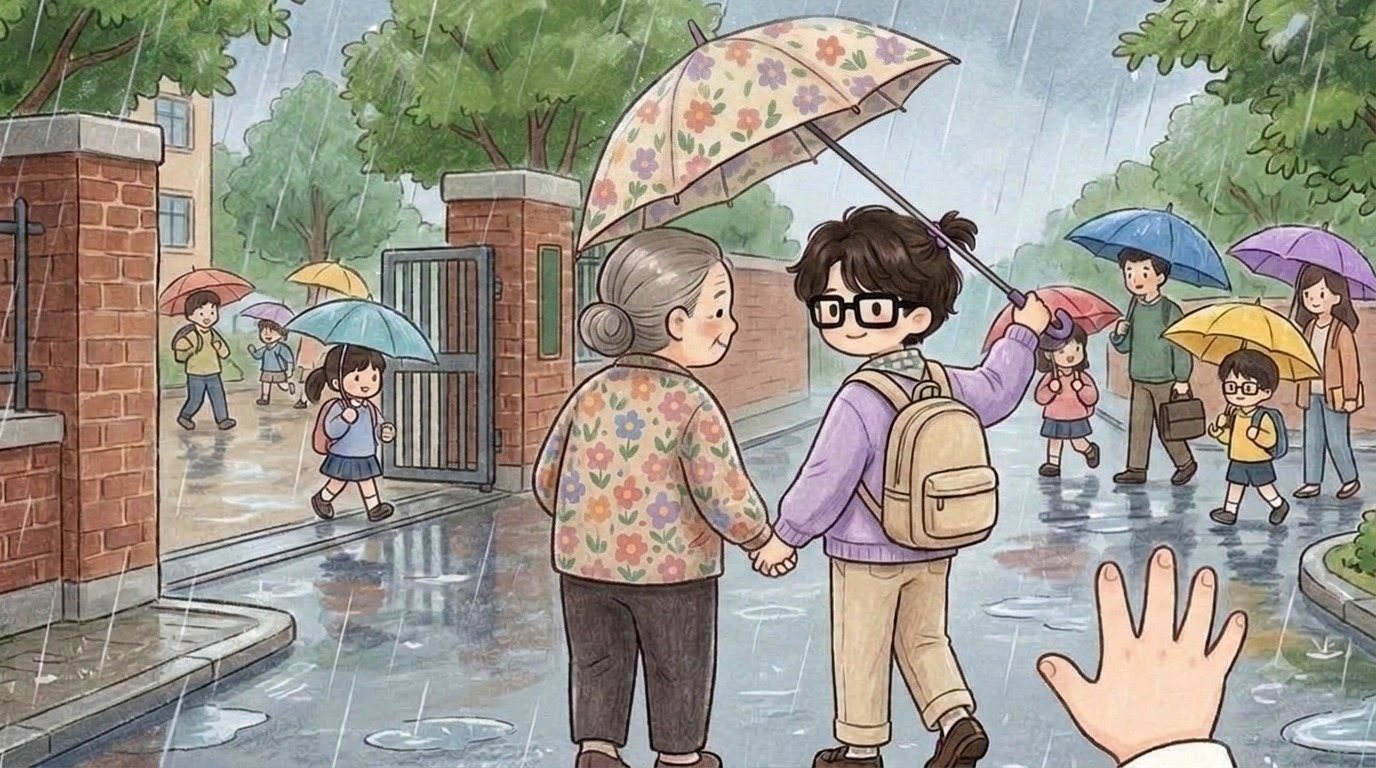
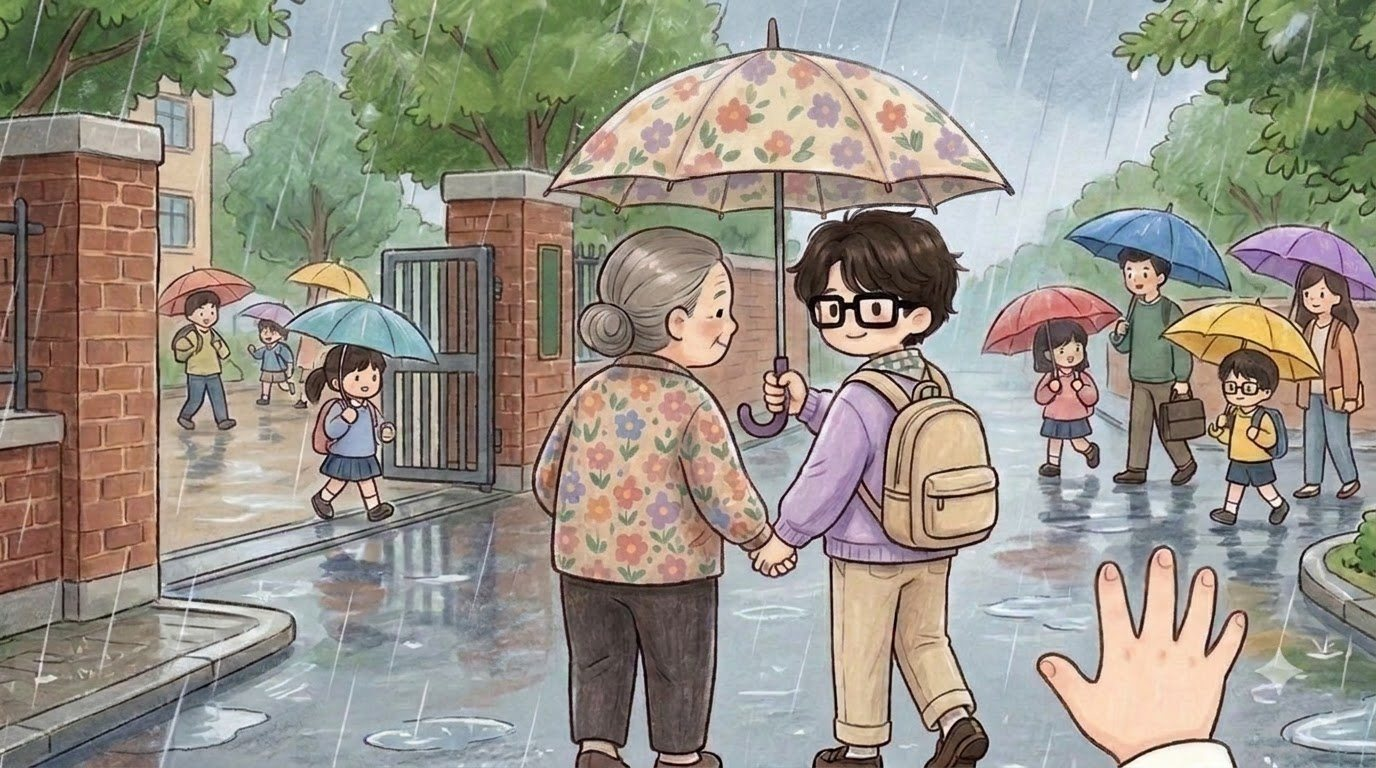
Hangyeol (owner 11/07): finds that sat on the map as pasted things become picking the thing (line, hat, paper rice cake, mask, box, umbrella, flashlight, paper, spoon, flag, water; 11 finds in 8 meetings); kept: thread/scissors/drawing on desks, hair tie on the ground, stairs, magnet; Day 9 picture 

diff --git a/day2/ep_hangyeol.js b/day2/ep_hangyeol.js
@@ -62,7 +62,6 @@ EP.hangyeol=[
 
 // ■ Day 3 — 맨 뒤 줄 (2)
 {title:'맨 뒤 줄',scene:'hangyeol_02',place:'gym',at:[760,560],
- things:{gym:[['line',1010,720,190]]},
  pre:[
   {pic:'hangyeol_02a'},
   ['nar','','강당. 외부에서 오신 강사 선생님이 안전교육을 하러 오셨다. 담임 선생님은 출석을 확인하러 잠깐 교무실에 가셨다.'],
@@ -102,7 +101,7 @@ EP.hangyeol=[
   ['nar','','안전교육이 끝나고 나갈 때, 한결이가 내 팔찌를 톡 쳤다.'],
   ['hangyeol','smile','매듭 괜찮아? A/S 필요하면 말해.'],
   ['think','smile','(아까 일은 묻지 않기로 했다. 한결이가 먼저 말하면 그때 듣지, 뭐.)'],
-  {k:'line',goal:'「{x}」 서기'},
+  {k:'line',goal:'「{x}」 서기',bag:['line','chair','door','ball','flag']},
   ['nar','','번호순 한 {@line}로 강당을 나갔다.']],
  eve:{lead:[['me','smile','{m}, 오늘 강당에서 안전교육 받았는데 강사 선생님이 남자 한 {@line}, 여자 한 {@line} 서래.'],['mom','smile','그렇게 서는 데도 있지.'],['me','sad','근데 강사 선생님이 한결이 보고 머리 묶었다고 여자 {@line}로 가래. 애들이 웃었어.'],['mom','sad','……한결이 속상했겠다.']],
   A:[['me','sad','혼날까 봐 내가 한결이 등 떠밀어서 {@line} 맨 뒤로 보냈어. 근데 한결이가 내내 조용했어.'],['mom','smile','혼날까 봐 걱정한 거구나.'],['me','sad','응. 근데 한결이는 거기 가기 싫었던 것 같아.'],['mom','smile','그럴 수도 있겠다. 다음엔 밀기 전에 먼저 물어보고, 한결이가 어떻게 하고 싶은지 조금 기다려 봐도 되고.']],
@@ -164,7 +163,6 @@ EP.hangyeol=[
 
 // ■ Day 5 — 남자 대 여자 (4)
 {title:'남자 대 여자',scene:'hangyeol_04',place:'field',at:[800,500],with:[['junho',960,520]],
- things:{field:[['hat',700,570,46]]},
  pre:[
   {pic:'hangyeol_04a'},
   ['nar','','점심시간 운동장. 반 아이들이 피구를 하려고 모였다. 나는 한결이 옆으로 갔다.'],
@@ -196,7 +194,7 @@ EP.hangyeol=[
    ['nar','','한결이가 나를 봤다. 팔찌 돌리던 손가락이 멈췄다.'],['hangyeol','laugh','……좋아! 그럼 생일로! 1월부터 6월 생일 이쪽, 7월부터 12월 저쪽!'],
    ['nar','','아이들: 「오, 그거 처음 해 본다!」'],['nar','','한결이가 친구들 생일을 하나하나 다 외워서 불렀다. 아이들이 감탄했다.']]}],
  post:[
-  {k:'hat',goal:'「{x}」 쓰기'},
+  {k:'hat',goal:'「{x}」 쓰기',bag:['hat','ball','flag','water','shoes']},
   {pic:'hangyeol_04c'},
   ['nar','','우리 팀 표시로 {@hat}를 썼다.'],
   {pic:'hangyeol_04b'},
@@ -266,7 +264,6 @@ EP.hangyeol=[
 
 // ■ Day 7 — 누이 역 (6)
 {title:'누이 역',scene:'hangyeol_06',place:'class',at:[1300,262],
- things:{class:[['basket',800,214,84,null,'stay'],['rice_cake',800,196,40,'rice_cake_paper','stay'],['mask',905,205,58]]},// the paper rice cake sits in the props basket (owner 11/07)
  pre:[
   ['nar','','학예회 연극은 「해님 달님」으로 정해졌다. {@blackboard}에 역할이 적혔다. 오빠, 누이, 엄마, 호랑이, 나무꾼.'],
   ['nar','','나는 한결이 자리로 갔다. 한결이는 {@blackboard}을 뚫어지게 보고 있었다.'],
@@ -274,7 +271,7 @@ EP.hangyeol=[
   ['hangyeol','smile','……누이. 마지막에 해님 되는 거.'],
   ['think','surprised','(어, 나도 누이 하고 싶은데.)'],
   ['think','smile','(누이는 마지막에 하늘로 올라가잖아. 제일 멋있어.)'],
-  {k:'rice_cake',goal:'「{x}」 소품 들기'},
+  {k:'rice_cake',goal:'「{x}」 소품 들기',bag:['rice_cake','mask','chalk','paper','box']},
   ['nar','','소품 바구니에서 {@paper}로 만든 {@rice_cake}을 들었다.'],
   ['nar','','선생님: 「하고 싶은 역할에 이름 쓰세요. 두 명 이상이면 오디션으로 정할게요.」'],
   {pic:'hangyeol_06'},
@@ -308,7 +305,7 @@ EP.hangyeol=[
   ['nar','','선생님: 「누이는 한결이. 그리고……」'],
   ['nar','','선생님이 나를 보셨다.'],
   ['nar','','선생님: 「아까 쉬는 시간에 호랑이 흉내 낸 사람? 어흥 소리가 교실 끝까지 들리던데. 호랑이 해 볼래?」'],
-  {k:'mask',goal:'「{x}」 써 보기'},
+  {k:'mask',goal:'「{x}」 써 보기',bag:['mask','hat','rice_cake','paper','basket']},
   {pic:'hangyeol_06d'},
   ['nar','','호랑이 {@mask}을 썼다.'],
   ['me','laugh','……어흥.'],
@@ -324,14 +321,13 @@ EP.hangyeol=[
 
 // ■ Day 8 — 상자 두 개 (7)
 {title:'상자 두 개',scene:'hangyeol_07',place:'class',at:[1020,330,'stand'],
- things:{class:[['box',780,210,66],['box',905,210,66]]},
  pre:[
   {pic:'hangyeol_07a'},
   ['nar','','금요일은 칭찬 {@sticker}를 상품으로 바꾸는 날이었다. {@sticker} 판을 들고 {@line}을 섰다. 바로 앞이 한결이였다.'],
   ['hangyeol','laugh','나 {@sticker} 열 개. 오늘 뭐 고를지 일주일 내내 생각했어.'],
   {k:'sticker',goal:'「{x}」 판 꺼내기',bag:['notebook','pcase','sticker','handkerchief','eraser']},
   ['nar','','{@sticker} 판에 {@sticker}가 열 개 붙어 있었다.'],
-  {k:'box',goal:'「{x}」 들여다보기'},{pic:'hangyeol_07'},
+  {k:'box',goal:'「{x}」 들여다보기',bag:['box','basket','bag','sticker','paper']},{pic:'hangyeol_07'},
   ['nar','','교탁 위에 {@box}가 두 개 있었다. 파란 {@paper}에 ‘남자’, 분홍 {@paper}에 ‘여자’라고 쓰여 있었다.'],
   ['nar','','남자 {@box}에는 미니카, 딱지, 축구 카드. 여자 {@box}에는 머리핀, {@sticker}북, 반짝이 볼펜.'],
   ['nar','','선생님: 「이번 상품은 학부모회에서 보내 주셨어요. 하나씩 고르세요.」'],
@@ -369,7 +365,6 @@ EP.hangyeol=[
 
 // ■ Day 9 — 이발소 (8)
 {title:'이발소',scene:'hangyeol_08',place:'gate',at:[960,650],
- things:{gate:[['umbrella',990,770,64]]},
  pre:[
   {pic:'hangyeol_08a'},
   ['nar','','하교 시간. 비가 조금 왔다. 교문 앞에서 한결이가 할머니를 기다리고 있었다. 나는 한결이 옆에 섰다.'],
@@ -377,7 +372,7 @@ EP.hangyeol=[
   {map:'gate_grandma',tap:[['grandma',1060,790,80]]},// Hangyeol's grandma drawn into the rainy gate map (11/07), not laid on top
   ['nar','','꽃무늬 {@umbrella}을 쓴 할머니가 오셨다. 한결이를 보자마자 웃으셨다.'],
   ['nar','','할머니: 「아이고, 우리 강아지!」'],
-  {k:'umbrella',goal:'「{x}」 받아 들기'},{pic:'hangyeol_08'},
+  {k:'umbrella',goal:'「{x}」 받아 들기',bag:['umbrella','bag','hat','shoes','water']},{pic:'hangyeol_08'},
   ['nar','','할머니가 건네신 작은 {@umbrella}을 한결이가 받았다.'],
   ['nar','','할머니: 「근데 한결아, 머리가 또 이렇게 자랐네. 눈 찔리겠다.」'],
   ['nar','','할머니: 「내일 할머니랑 이발소 가자. 시원하게 깎자.」'],
@@ -526,7 +521,6 @@ EP.hangyeol=[
 
 // ■ Day 12 — 어른이 된 나 (11) — 교실에서 시작해 수련회 밤을 떠올린다
 {title:'어른이 된 나',scene:'hangyeol_11',place:'class',at:[330,262],also:{triproom:[640,450]},
- things:{triproom:[['flashlight',600,470,40],['paper',690,480,68]]},
  pre:[
   {pic:'hangyeol_11a'},
   ['nar','','쉬는 시간. 창가에서 한결이가 수련회 사진을 보고 있었다. 선생님이 뽑아서 나눠 주신 사진이었다. 나는 한결이 옆으로 갔다.'],
@@ -536,10 +530,10 @@ EP.hangyeol=[
   ['hangyeol','smile','그날 내가 {@picture} 보여 줬잖아. 기억나?'],
   {fx:'past'},{go:'triproom'},
   ['nar','','수련회 밤, 레크리에이션 뒤 자유 시간. 로비 구석 소파에서 담요를 뒤집어쓴 채 {@flashlight}을 켰다.'],
-  {k:'flashlight',goal:'「{x}」 켜기'},
+  {k:'flashlight',goal:'「{x}」 켜기',bag:['flashlight','pillow','blanket','cup','book']},
   ['nar','','담요 속이 노랗게 밝아졌다.'],
   ['hangyeol','smile','있잖아. 오늘 활동지에 ‘어른이 된 나 그리기’ 있었잖아. 나 그거 다 못 그려서 여기서 마저 그렸어.'],
-  {k:'paper',goal:'「{x}」 펼치기'},
+  {k:'paper',goal:'「{x}」 펼치기',bag:['paper','book','notebook','blanket','flashlight']},
   ['nar','','한결이의 {@picture}이 펼쳐졌다.'],
   ['nar','','{@picture} 속 어른은 긴 머리를 하나로 묶고, 보라색 나비 머리핀을 하고 있었다. 큰 가게 앞에 서 있었다.'],
   {flag:'H04_name',is:1,lines:[['nar','','간판에는 「결이 공방」.']]},
@@ -633,12 +627,11 @@ EP.hangyeol=[
 
 // ■ Day 14 — 결이라고 불러 줘 (13)
 {title:'결이라고 불러 줘',scene:'hangyeol_13',place:'cafe',at:[700,710],with:[['yena',860,720],['junho',560,860]],
- things:{cafe:[['spoon',520,668,30]]},
  pre:[
   {pic:'hangyeol_13'},
   ['nar','','점심시간 급식실. 한결이 옆자리에 앉았다. 맞은편에는 예나와 준호가 있었다.'],
   ['nar','','한결이가 밥은 안 먹고 {@chopsticks}만 만지작거렸다.'],
-  {k:'spoon',goal:'「{x}」 집기'},
+  {k:'spoon',goal:'「{x}」 집기',bag:['spoon','chopsticks','tray','cup','milk']},
   {k:'chopsticks',goal:'「{x}」 집기',bag:['spoon','chopsticks','tray','cup','milk']},{pic:'hangyeol_13'},
   ['hangyeol','smile','있잖아, 얘들아.'],
   ['nar','','한결이가 {@chopsticks}을 내려놓았다.'],
@@ -739,12 +732,11 @@ EP.hangyeol=[
 
 // ■ Day 16R — 이어달리기 (15)
 {title:'이어달리기',scene:'hangyeol_15',place:'field',at:[800,500],also:{stands:[640,540]},
- things:{field:[['flag',900,560,50],['water',760,575,40]]},
  pre:[
   {pic:'hangyeol_15c'},
   ['nar','','체육 시간. 다음 달 운동회에 나갈 이어달리기 연습 경기를 했다. 운동회 규칙대로 한 팀에 네 명.'],
   ['nar','','나는 세 번째, 한결이는 마지막 주자였다.'],
-  {k:'flag',goal:'「{x}」 흔들기'},
+  {k:'flag',goal:'「{x}」 흔들기',bag:['flag','ball','hat','water','towel']},
   ['nar','','우리 팀 {@flag}을 흔들었다.'],
   {pic:'hangyeol_15a'},
   ['nar','','탕!'],
@@ -752,7 +744,7 @@ EP.hangyeol=[
   ['nar','','한결이가 달렸다. 묶은 머리가 바람에 날렸다. 한 명, 두 명. 결승선 바로 앞에서 1등을 앞질렀다.'],
   ['nar','','아이들: 「한결! 한결! 한결!」'],
   ['nar','','1등이었다.'],
-  {k:'water',goal:'「{x}」 건네주기'},
+  {k:'water',goal:'「{x}」 건네주기',bag:['water','towel','flag','ball','hat']},
   {go:'stands'},{pic:'hangyeol_15'},
   ['nar','','경기가 끝나고 한결이와 스탠드 끝에 앉았다. 한결이가 {@water}을 벌컥벌컥 마셨다.'],
   ['hangyeol','laugh','대박 사건. 진짜 대박 사건.'],

diff --git a/index.html b/index.html
@@ -119,14 +119,14 @@ body,button{word-break:keep-all;overflow-wrap:break-word}
 <div id="fader"></div>
 <script>
 // same address, newest version: if the page this phone has kept is older than the one online, fetch the new one and reopen
-const BUILD='1107152232';
+const BUILD='1107152352';
 try{fetch(location.pathname,{cache:'no-store'}).then(r=>r.text()).then(t=>{const m=t.match(/const BUILD='(\d+)'/);if(m&&m[1]!==BUILD&&sessionStorage.getItem('upd')!==m[1]){sessionStorage.setItem('upd',m[1]);fetch(location.pathname,{cache:'reload'}).then(()=>location.reload())}}).catch(()=>{})}catch(e){}
 </script>
-<script src="i18n.js?v=1107152232"></script>
-<script src="i18n_prologue_v2.js?v=1107152232"></script>
-<script src="day2/i18n_engine.js?v=1107152232"></script>
-<script src="day2/data.js?v=1107152232"></script>
-<script src="day3/data.js?v=1107152232"></script>
+<script src="i18n.js?v=1107152352"></script>
+<script src="i18n_prologue_v2.js?v=1107152352"></script>
+<script src="day2/i18n_engine.js?v=1107152352"></script>
+<script src="day2/data.js?v=1107152352"></script>
+<script src="day3/data.js?v=1107152352"></script>
 <script>
 // ---------- data ----------
 const MW=1672,MH=941,KID=180;
@@ -569,35 +569,35 @@ function pickHero(){const m=document.getElementById('modal'),c=document.getEleme
  c.innerHTML=`<h2>${tr('전학생 반장되기')}</h2><p>${tr('한국말이 아직 서툰 전학생,<br>반장 선거에 나가다.')}</p><p style="margin-top:14px">${tr('누구로 할까요?')}</p>${(()=>{const s=loadSave();return s&&s.day>=2&&s.mode===UI+'-'+LANG?`<p><button class="big" id="cont">${tr('{n}일차부터 이어 하기').replace('{n}',s.day)}</button></p>`:''})()}<div class="pick heroes"><button data-h="hero_f"><img src="faces/hero_f_smile.jpg" alt="여자 주인공">${heroName(1)}</button><button data-h="hero_m"><img src="faces/hero_m_smile.jpg" alt="남자 주인공">${heroName(0)}</button></div>`;
  m.classList.add('on');{const cb=document.getElementById('cont');if(cb)cb.onclick=()=>{const s=loadSave();HERO=s.hero;Object.assign(HEART,s.heart||{});(s.found||[]).forEach(k=>FOUND.add(k));HEART_D1={...HEART};chime();(typeof contGame==='function'?contGame(s):startDay(Math.min(s.day,Object.keys(window.D3||{}).length?3:2)))}}c.querySelectorAll('.pick button').forEach(b=>b.onclick=()=>{HERO=b.dataset.h;m.classList.remove('on');chime();bgm('day');load('home_am');say([['nar','','이사 온 다음 날 아침. 아직 풀지 못한 상자들이 쌓여 있다.'],['think','sad','(오늘부터 새 학교야. 여기 말도 아직 서툰데…….)'],['think','smile','({m}한테 인사하고 학교 가야지.)']],morning)})}
 </script>
-<script src="day2/engine.js?v=1107152232"></script>
-<script src="day2/ep_minho.js?v=1107152232"></script>
-<script src="day2/meet.js?v=1107152232"></script>
-<script src="day2/ep_sua.js?v=1107152232"></script>
-<script src="day2/ep_hangyeol.js?v=1107152232"></script>
-<script src="day2/ep_siwoo.js?v=1107152232"></script>
-<script src="day2/ep_haram.js?v=1107152232"></script>
-<script src="day2/ep_jiho.js?v=1107152232"></script>
-<script src="day2/ep_hyeeun.js?v=1107152232"></script>
-<script src="day2/ep_haneul.js?v=1107152232"></script>
-<script src="day2/ep_junho.js?v=1107152232"></script>
-<script src="day2/ep_yuna.js?v=1107152232"></script>
-<script src="day2/ep_yena.js?v=1107152232"></script>
-<script src="day2/ep_haeun.js?v=1107152232"></script>
-<script src="day2/ep_youngmin.js?v=1107152232"></script>
-<script src="day2/ep_seah.js?v=1107152232"></script>
-<script src="day2/ep_jihoon.js?v=1107152232"></script>
-<script src="words_ja_ru.js?v=1107152232"></script>
-<script src="day2/mybag.js?v=1107152232"></script>
-<script src="day2/wordpics.js?v=1107152232"></script>
-<script src="day2/spots.js?v=1107152232"></script>
-<script src="day2/textfit.js?v=1107152232"></script>
-<script src="day2/tester.js?v=1107152232"></script>
-<script src="day2/ux.js?v=1107152232"></script>
-<script src="day2/tapword.js?v=1107152232"></script>
-<script src="day2/review.js?v=1107152232"></script>
-<script src="day2/plane.js?v=1107152232"></script>
-<script src="day2/ep_ending.js?v=1107152232"></script>
-<script src="day2/ending.js?v=1107152232"></script>
+<script src="day2/engine.js?v=1107152352"></script>
+<script src="day2/ep_minho.js?v=1107152352"></script>
+<script src="day2/meet.js?v=1107152352"></script>
+<script src="day2/ep_sua.js?v=1107152352"></script>
+<script src="day2/ep_hangyeol.js?v=1107152352"></script>
+<script src="day2/ep_siwoo.js?v=1107152352"></script>
+<script src="day2/ep_haram.js?v=1107152352"></script>
+<script src="day2/ep_jiho.js?v=1107152352"></script>
+<script src="day2/ep_hyeeun.js?v=1107152352"></script>
+<script src="day2/ep_haneul.js?v=1107152352"></script>
+<script src="day2/ep_junho.js?v=1107152352"></script>
+<script src="day2/ep_yuna.js?v=1107152352"></script>
+<script src="day2/ep_yena.js?v=1107152352"></script>
+<script src="day2/ep_haeun.js?v=1107152352"></script>
+<script src="day2/ep_youngmin.js?v=1107152352"></script>
+<script src="day2/ep_seah.js?v=1107152352"></script>
+<script src="day2/ep_jihoon.js?v=1107152352"></script>
+<script src="words_ja_ru.js?v=1107152352"></script>
+<script src="day2/mybag.js?v=1107152352"></script>
+<script src="day2/wordpics.js?v=1107152352"></script>
+<script src="day2/spots.js?v=1107152352"></script>
+<script src="day2/textfit.js?v=1107152352"></script>
+<script src="day2/tester.js?v=1107152352"></script>
+<script src="day2/ux.js?v=1107152352"></script>
+<script src="day2/tapword.js?v=1107152352"></script>
+<script src="day2/review.js?v=1107152352"></script>
+<script src="day2/plane.js?v=1107152352"></script>
+<script src="day2/ep_ending.js?v=1107152352"></script>
+<script src="day2/ending.js?v=1107152352"></script>
 <script>
 // the goal shows big for a few seconds, then folds into a small pill (tap it to open it again)
 {const g=document.getElementById('goal');let t=null;const big=()=>{g.classList.remove('mini');clearTimeout(t);t=setTimeout(()=>g.classList.add('mini'),4000)};
